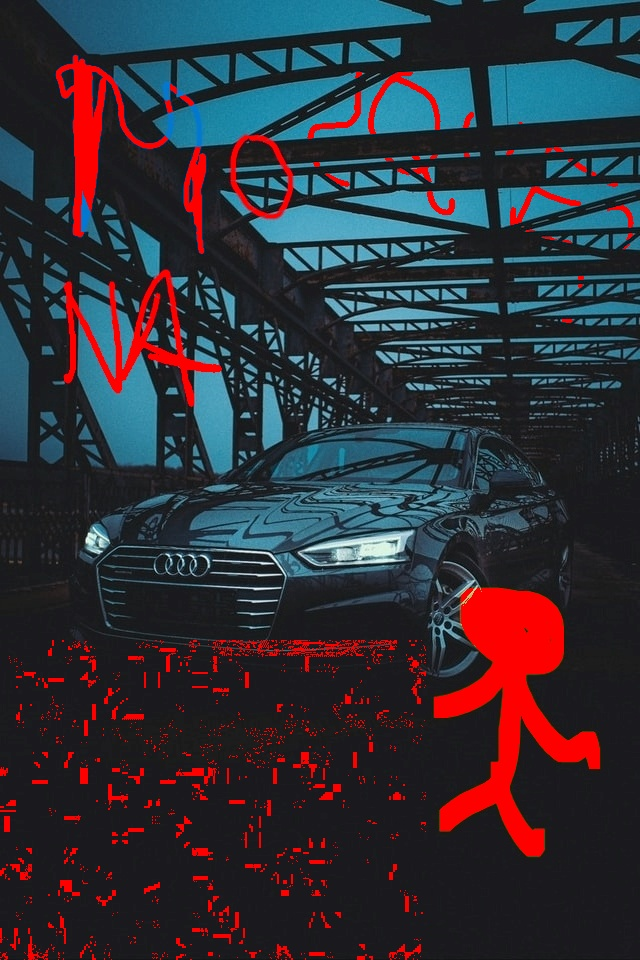
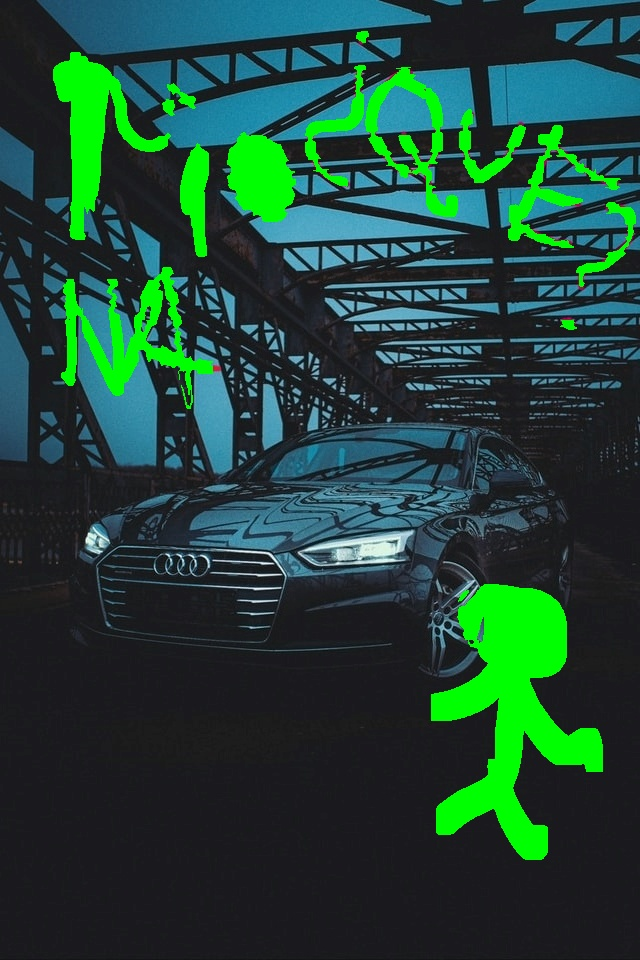
finished threaded implementation

diff --git a/threads.py b/threads.py
@@ -5,13 +5,64 @@ import properties
 import copy
 from threading import Lock
 import time
+import numpy as np
+from skimage.metrics import structural_similarity
 
 diff_patches_list = {}
 # define a mutex for writing in list
 mutex = Lock()
 
 
+def thread_function2(idx, patch1, patch2):
+    print(f"Thread {idx} started ...")
+    # Convert images to grayscale
+    patch1_gray = cv2.cvtColor(patch1, cv2.COLOR_BGR2GRAY)
+    patch2_gray = cv2.cvtColor(patch2, cv2.COLOR_BGR2GRAY)
+
+    # Compute SSIM between two images
+    (score, diff) = structural_similarity(patch1_gray, patch2_gray, full=True)
+    print(f"Image similarity: {score}")
+    # optimisation
+    print(properties.NEEDED_IMAGE_SIZE)
+    if (properties.NEEDED_IMAGE_SIZE <= 300000 and score > 0.9) or \
+            (properties.NEEDED_IMAGE_SIZE > 300000 and score > 0.99):
+        mutex.acquire()
+        diff_patches_list[idx] = patch1
+        mutex.release()
+        return
+
+    # The diff image contains the actual image differences between the two images
+    # and is represented as a floating point data type in the range [0,1]
+    # so we must convert the array to 8-bit unsigned integers in the range
+    # [0,255] before we can use it with OpenCV
+    diff = (diff * 255).astype("uint8")
+
+    # Threshold the difference image, followed by finding contours to
+    # obtain the regions of the two input images that differ
+    thresh = cv2.threshold(diff, 0, 255, cv2.THRESH_BINARY_INV | cv2.THRESH_OTSU)[1]
+    contours = cv2.findContours(thresh.copy(), cv2.RETR_EXTERNAL, cv2.CHAIN_APPROX_SIMPLE)
+    contours = contours[0] if len(contours) == 2 else contours[1]
+
+    mask = np.zeros(patch1.shape, dtype='uint8')
+    filled_after = patch2.copy()
+
+    for c in contours:
+        area = cv2.contourArea(c)
+        if area > 40:
+            x, y, w, h = cv2.boundingRect(c)
+            # cv2.rectangle(before, (x, y), (x + w, y + h), (36, 255, 12), 2)
+            # cv2.rectangle(after, (x, y), (x + w, y + h), (36, 255, 12), 2)
+            cv2.drawContours(mask, [c], 0, (0, 255, 0), -1)
+            cv2.drawContours(filled_after, [c], 0, (0, 255, 0), -1)
+
+    # add the difference to the list
+    mutex.acquire()
+    diff_patches_list[idx] = filled_after
+    mutex.release()
+
+
 def thread_function(idx, patch1, patch2):
+    # old implementation
     print(f"Thread {idx} started ...")
     difference = cv2.subtract(patch1, patch2)
 
@@ -39,39 +90,40 @@ def main_threads():
         patch_image2 = cv2.imread("patches/2_patch_" + str(index) + ".jpg")
         # difference = cv2.subtract(patch_image1, patch_image2)
 
-        x = threading.Thread(target=thread_function, args=(index, patch_image1, patch_image2,))
+        x = threading.Thread(target=thread_function2, args=(index, patch_image1, patch_image2,))
         threads.append(x)
         x.start()
 
     for x in threads:
         x.join()
 
-    # patch images together to form the initial image
+    # put patches together to form the initial image
     final_image = None
+    nr_rows_cols = int(math.sqrt(properties.NB_TASKS))
 
-    for idx_v in range(0, int(math.sqrt(properties.NB_TASKS))):
+    for idx_v in range(0, nr_rows_cols):
         image_index = int(idx_v * (math.sqrt(properties.NB_TASKS)-1) + idx_v)
 
-        patch_image = cv2.imread("patches/1_patch_" + str(image_index) + ".jpg")
+        # patch_image = cv2.imread("patches/1_patch_" + str(image_index) + ".jpg")
         mask = diff_patches_list[image_index]
-        h_img = cv2.bitwise_and(patch_image, patch_image, mask=mask)
-        h_img[mask != 255] = [0, 0, 255]
+        # h_img = cv2.bitwise_and(patch_image, patch_image, mask=mask)
+        # h_img[mask != 255] = [0, 0, 255]
 
-        for idx_h in range(1, int(math.sqrt(properties.NB_TASKS))):
+        for idx_h in range(1, nr_rows_cols):
 
             image_index = int(idx_v * (math.sqrt(properties.NB_TASKS)-1) + idx_h + idx_v)
-            patch_image_1 = cv2.imread("patches/1_patch_" + str(image_index) + ".jpg")
+            # patch_image_1 = cv2.imread("patches/1_patch_" + str(image_index) + ".jpg")
             mask_1 = diff_patches_list[image_index]
-            h_img_1 = cv2.bitwise_and(patch_image_1, patch_image_1, mask=mask_1)
-            h_img_1[mask_1 != 255] = [0, 0, 255]
+            # h_img_1 = cv2.bitwise_and(patch_image_1, patch_image_1, mask=mask_1)
+            # h_img_1[mask_1 != 255] = [0, 0, 255]
 
-            h_img = cv2.hconcat([h_img, h_img_1])
+            mask = cv2.hconcat([mask, mask_1])
 
         if isFirst:
-            final_image = copy.deepcopy(h_img)
+            final_image = copy.deepcopy(mask)
             isFirst = False
         else:
-            final_image = cv2.vconcat([final_image, h_img])
+            final_image = cv2.vconcat([final_image, mask])
 
     print(f"\nThreads done: {'{:.2f}'.format(time.time() - start_time)} s")
     cv2.imshow('final_image', final_image)

diff --git a/main.py b/main.py
@@ -5,6 +5,7 @@ import properties
 import os
 import threads
 
+
 # delete the previous patches from dir
 def clean_directory():
     patch_files = glob.glob('patches/*.jpg')
@@ -23,6 +24,7 @@ def down_scale(image_1, image_2):
     elif image_1.shape < image_2.shape:
         image_2 = cv2.resize(image_2, (im1_width, im1_height))
 
+    properties.NEEDED_IMAGE_SIZE = image_1.shape[0] * image_1.shape[1]
     return image_1, image_2
 
 

diff --git a/properties.py b/properties.py
@@ -1,2 +1,3 @@
 NB_TASKS = 9
 IMAGES = ('images/ex4_1.jpg', 'images/ex4_2.jpg')
+NEEDED_IMAGE_SIZE = None

diff --git a/README.md b/README.md
@@ -1,7 +1,9 @@
 # Image-comparison-parallel-and-distributed
 Final project for the Parallel and Distributed programming course from CS year 3
 
-The project has 2 implementations: one with "regular" threads or tasks/futures, and one distributed (using MPI).
+This application helps in visualising the exact differences between 2 similar images.
+
+The project has 2 implementations: one with "regular" threads, and one distributed (using MPI).
 
 The algorithms
 - 
